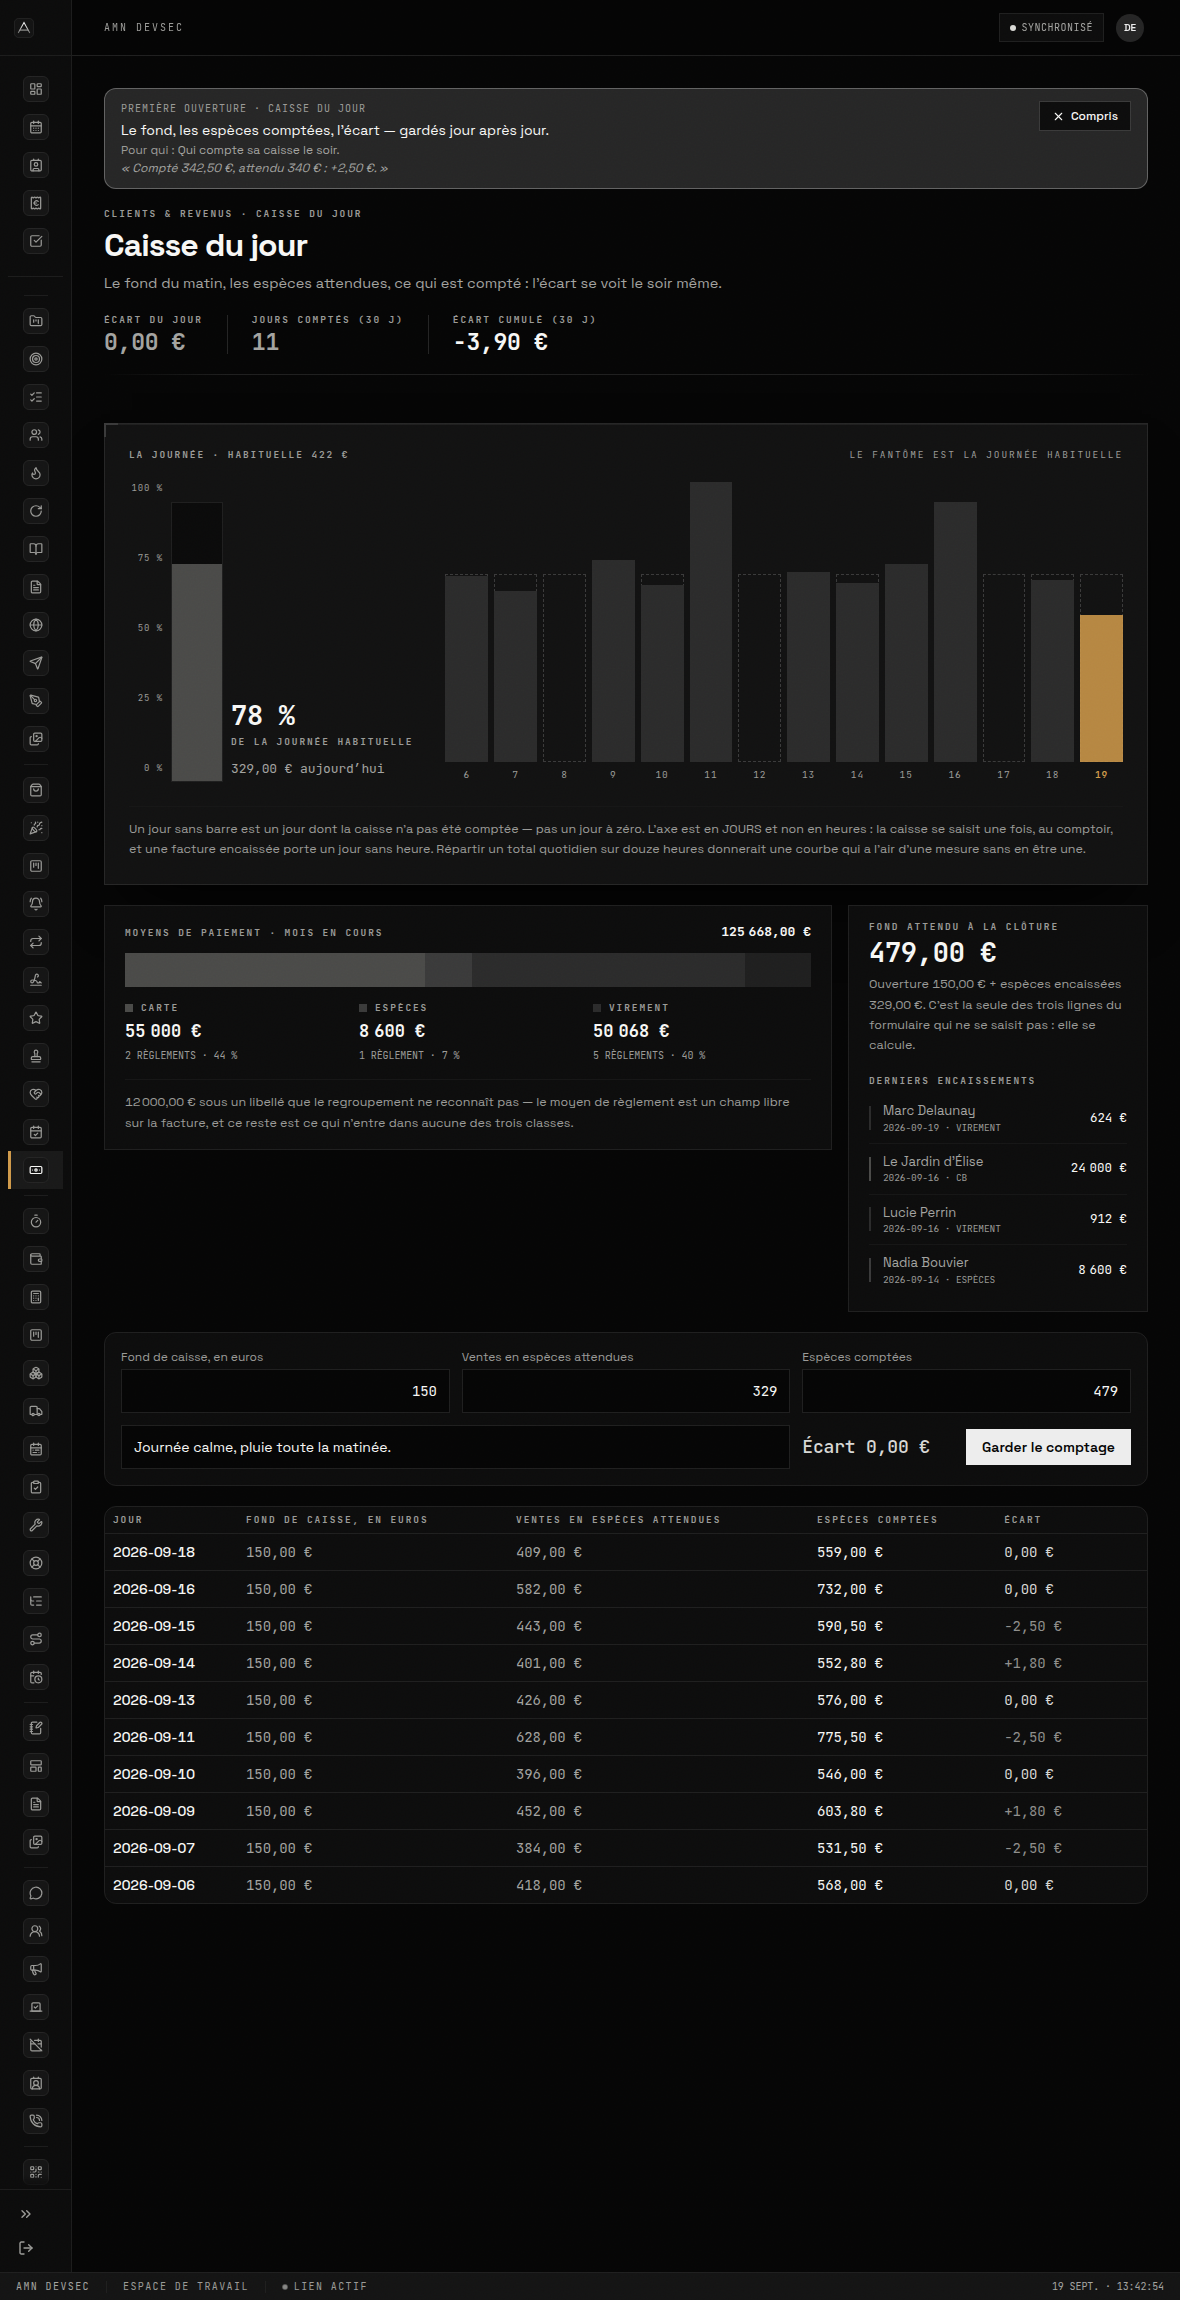
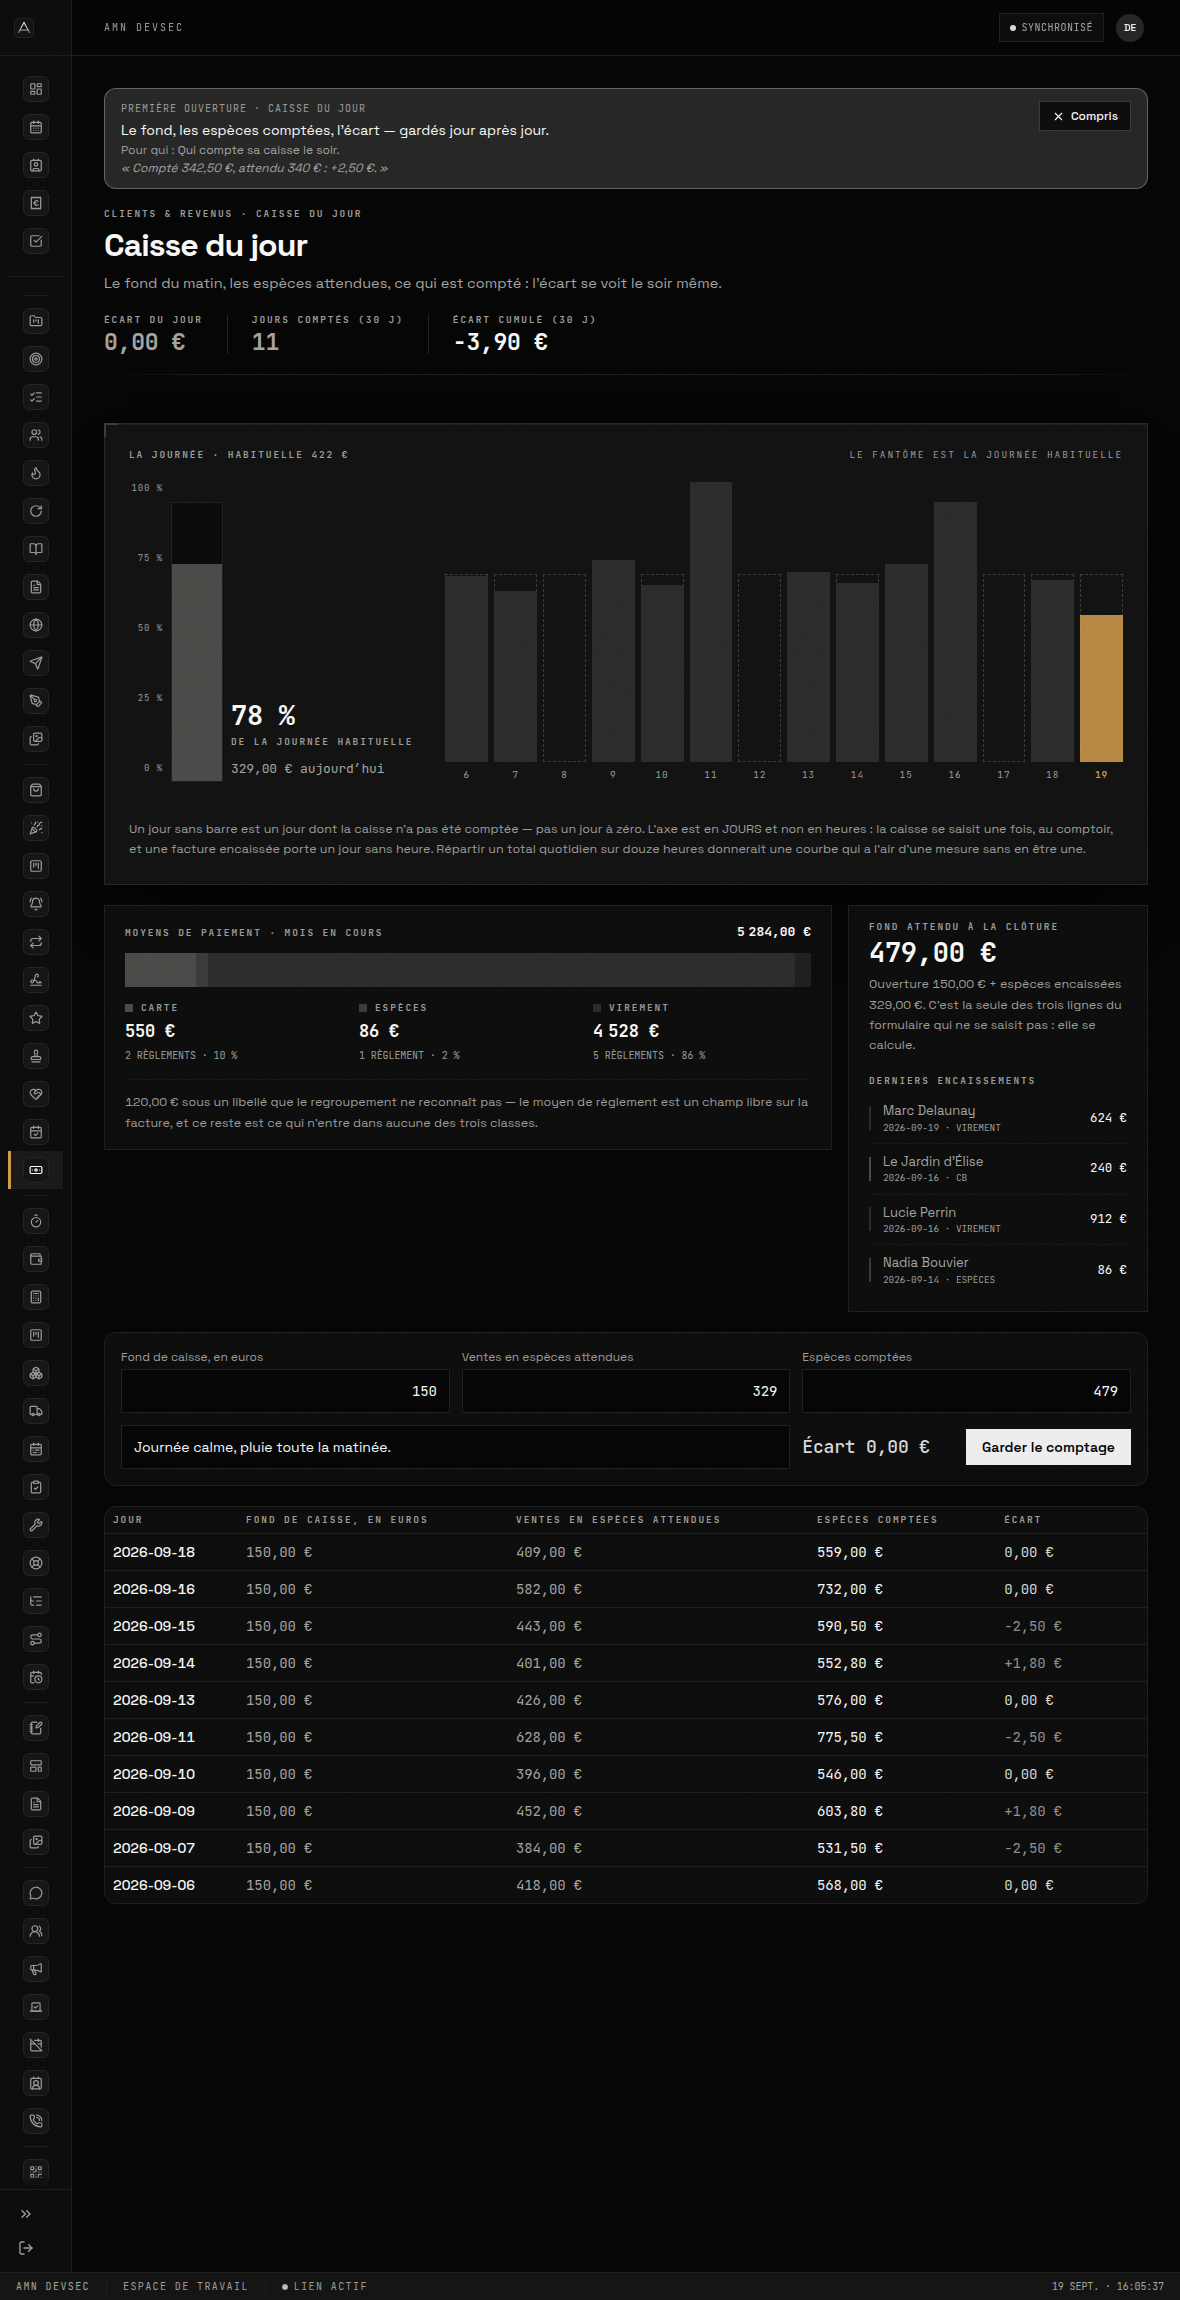
Clients & revenus (9) — Relances : l'échelle d'escalade, et deux défauts de données
Relances (14d) — quatre marches de hauteur CROISSANTE (70, 110, 150, 190 px,
écart constant de 40), chaque créance posée en jeton sur la sienne. Ce n'est
pas un tableau trié par ancienneté : c'est une montée, et l'on voit ce qui
approche du haut. Quatre cases de même taille ne se montent pas, elles se
cochent.

Les règles du paquet, tenues :

  · LA MARCHE DU HAUT RESTE DESSINÉE MÊME VIDE, avec « personne » en filet
    pointillé — c'est elle qui donne son sens aux trois autres. Le jeu
    d'essai la laisse vide exprès (voir plus bas) ;
  · LE JETON DE CRÉANCE RESTE EN ENCRE CLAIRE, même sur la marche ambre : la
    marche est le sujet, la créance est ce qui s'y trouve ;
  · LE PASSAGE AU DEGRÉ SUIVANT EST DÉCLENCHÉ À LA MAIN, et l'écran le dit en
    toutes lettres. Rien ne part d'ici sans qu'on ait copié le texte et noté
    l'envoi.

L'ambre va à la marche la plus haute QUI PORTE QUELQU'UN — ce qui approche du
haut, donc ce qui demande une décision. Son fond, le degré gravé dedans et
son libellé dessous : trois nœuds. La lettre, elle, perd le sien : elle
gardait « à écrire » en ambre, et deux régions ambre font zéro région ambre.
Elle garde sa matière de feuille, qui dit déjà que c'est un document.

ARBITRAGE. MODULES.md grave « J+30 » dans la marche de mise en demeure. Les
seuils du produit sont 7 / 21 / 45 jours (src/lib/relances.ts), qui suivent
l'usage commercial français et sont documentés depuis un chantier antérieur.
[…]

Changed region(s): [[0.122, 0.4013, 0.4881, 0.4939], [0.5186, 0.4322, 0.5492, 0.463]]

diff --git a/src/screens/RemindersScreen.tsx b/src/screens/RemindersScreen.tsx
@@ -12,6 +12,8 @@ import { staggerContainer, staggerItem } from '../lib/transitions';
 import { useLangue } from '../i18n';
 import { paliereDe, toneAMonte, rangPalier, cleMessagePalier, CLE_LIBELLE_PALIER, ECHELLE, type PalierRelance } from '../lib/relances';
 import type { Invoice } from '../shared/api';
+import { useAppointments } from '../state/useAppointments';
+import { useHaloSignal } from '../components/EtatEcran';
 
 interface ReminderData {
   invoiceId: string;
@@ -29,6 +31,16 @@ const PALIER_TON: Record<PalierRelance, string> = {
   'dernier-avis': 'text-danger',
 };
 const isoDay = () => new Date().toISOString().slice(0, 10);
+
+/**
+ * LES QUATRE MARCHES DE L'ESCALADE (`14d`) — 70, 110, 150, 190 px.
+ *
+ * Des hauteurs CROISSANTES, et c'est tout l'objet : une échelle se monte, et
+ * quatre cases de même taille ne se montent pas, elles se cochent. L'écart
+ * entre marches est constant (40 px) pour que la montée se lise comme
+ * régulière — ce qu'elle est : le ton monte d'un cran à chaque seuil.
+ */
+const MARCHES: number[] = [70, 110, 150, 190];
 
 /**
  * LES RELANCES DE PAIEMENT — l'argent dû, et le mot qu'on envoie.
@@ -159,6 +171,89 @@ export function RemindersScreen() {
       palier: palierDe(f),
     });
 
+  /* ------------------------------------- l'échelle d'escalade (`14d`) -- */
+
+  /*
+    LES CRÉANCES POSÉES SUR LEUR MARCHE. Ce n'est pas un tableau trié par
+    ancienneté : c'est une MONTÉE, et l'on voit ce qui approche du haut.
+  */
+  const parMarche = useMemo(() => {
+    const retard = (f: Invoice) =>
+      Math.max(1, Math.round((Date.parse(jour) - Date.parse(f.dueAt)) / 86_400_000));
+    return ECHELLE.map((cran) => ({
+      cran,
+      creances: echues.filter((f) => paliereDe(retard(f)) === cran.palier),
+    }));
+  }, [echues, jour]);
+
+  /*
+    L'AMBRE VA À LA MARCHE LA PLUS HAUTE QUI PORTE QUELQU'UN.
+
+    C'est ce qui approche du haut, donc ce qui demande une décision. La marche
+    du dernier avis reste DESSINÉE même vide — c'est elle qui donne son sens
+    aux trois autres, et une échelle dont on efface le dernier barreau cesse
+    d'être une échelle.
+  */
+  const marcheAmbre = useMemo(
+    () => [...parMarche].reverse().find((m) => m.creances.length > 0) ?? null,
+    [parMarche],
+  );
+  const halo = useHaloSignal(!!marcheAmbre);
+
+  /*
+    CE QUE L'ÉCHELLE A RÉCUPÉRÉ SUR L'ANNÉE, et jusqu'où elle est montée.
+    Les deux chiffres sont COMPTÉS : une facture encaissée après son échéance
+    est une créance rattrapée, et le palier le plus haut jamais noté se lit
+    dans la trace des relances. Rien n'est affirmé sans être comptable.
+  */
+  const bilan = useMemo(() => {
+    const annee = jour.slice(0, 4);
+    const enRetardUnJour = invoices.filter(
+      (f) =>
+        f.kind !== 'creditNote' &&
+        f.status !== 'draft' &&
+        f.status !== 'cancelled' &&
+        f.dueAt &&
+        f.dueAt.startsWith(annee) &&
+        (f.status === 'paid' ? f.paidAt > f.dueAt : f.dueAt < jour),
+    );
+    const rattrapees = enRetardUnJour.filter((f) => f.status === 'paid');
+    const plusHaut = relances.reduce(
+      (haut, r) => Math.max(haut, rangPalier(r.palier ?? 'rappel')),
+      -1,
+    );
+    return { total: enRetardUnJour.length, rattrapees: rattrapees.length, plusHaut };
+  }, [invoices, relances, jour]);
+
+  /*
+    LE RENDEZ-VOUS DU JOUR avec le client de la marche la plus haute : on
+    n'envoie pas une mise en demeure à quelqu'un qu'on voit dans trois heures.
+    Ce fait est LU dans l'agenda, jamais écrit en dur.
+  */
+  const { appointments } = useAppointments();
+  /*
+    LA CRÉANCE DONT ON PARLE EST CELLE DE LA LETTRE, pas la première de la
+    marche. Vu sur capture : la carte disait « un rendez-vous avec Hugo
+    Marchand » pendant que la lettre s'adressait à Salomé Vallon — l'écran
+    désignait deux personnes comme « celle qu'on relance ». `tete` est la plus
+    dure à écrire, et c'est elle que l'écran a choisie ; la carte la suit.
+  */
+  const clientDeLaMarche =
+    (tete && marcheAmbre?.creances.some((f) => f.id === tete.id) ? tete : marcheAmbre?.creances[0]) ??
+    null;
+  const rdvDuJour = useMemo(() => {
+    if (!clientDeLaMarche) return null;
+    const cible = clientDeLaMarche.billTo.name.trim().toLowerCase();
+    return (
+      appointments.find(
+        (a) =>
+          a.status === 'scheduled' &&
+          a.startAt.startsWith(jour) &&
+          (a.clientName || '').trim().toLowerCase() === cible,
+      ) ?? null
+    );
+  }, [appointments, clientDeLaMarche, jour]);
+
   const palierTete = tete ? palierDe(tete) : null;
   const dernierePourTete = tete ? derniere(tete) : null;
   const dernierPalierTete = dernierePourTete?.palier ?? (dernierePourTete ? 'rappel' : null);
@@ -185,8 +280,154 @@ export function RemindersScreen() {
         </motion.div>
       ) : (
         <>
-          <motion.section variants={staggerItem} className="panel-sheet p-5 sm:p-6" data-signal-groupe="a-ecrire">
-            <p className="eyebrow eyebrow-signal mb-3">{t('relances.aEcrire')}</p>
+          {/* ── L'ÉCHELLE D'ESCALADE — l'objet dominant (`14d`) ──────────── */}
+          <motion.section variants={staggerItem} className="panel-raised panel-raised-wide panel-ticks px-6 py-6">
+            <div className="mb-6 flex flex-wrap items-baseline justify-between gap-x-6 gap-y-2">
+              <p className="eyebrow">{t('relances.echelle')}</p>
+              <p className="font-mono text-[9.5px] uppercase tracking-[0.2em] text-text-muted">
+                on monte d’un cran à la main, jamais tout seul
+              </p>
+            </div>
+
+            <div className="flex items-end gap-3 sm:gap-5">
+              {parMarche.map(({ cran, creances }, i) => {
+                const signal = marcheAmbre?.cran.palier === cran.palier;
+                const vide = creances.length === 0;
+                return (
+                  <div key={cran.palier} className="flex min-w-0 flex-1 flex-col justify-end">
+                    {/* LES JETONS, POSÉS SUR LA MARCHE. Ils restent en ENCRE
+                        CLAIRE même sur la marche ambre : la marche est le
+                        sujet, la créance est ce qui s'y trouve. */}
+                    <div className="mb-2 flex flex-col gap-1">
+                      {creances.map((f) => (
+                        <button
+                          key={f.id}
+                          type="button"
+                          onClick={() => setChoisie(f.id)}
+                          title={`${f.billTo.name} · ${formatCents(netDueCents(f, invoices))} · ${jours(f)} j`}
+                          className={`flex min-w-0 items-baseline justify-between gap-2 border px-2 py-1.5 text-left transition-colors ${
+                            tete?.id === f.id
+                              ? 'border-border-strong bg-raised'
+                              : 'border-border bg-surface hover:bg-surface-hover'
+                          }`}
+                        >
+                          <span className="min-w-0 flex-1 truncate text-[12px] text-text-primary">
+                            {f.billTo.name}
+                          </span>
+                          <span className="tnum flex-shrink-0 font-mono text-[10px] text-text-muted">
+                            {jours(f)} j
+                          </span>
+                        </button>
+                      ))}
+                      {vide && (
+                        <span className="border border-dashed border-border-strong px-2 py-1.5 text-center font-mono text-[9.5px] uppercase tracking-[0.2em] text-text-muted">
+                          personne
+                        </span>
+                      )}
+                    </div>
+
+                    {/* LA MARCHE. Le degré est GRAVÉ dedans. */}
+                    <div
+                      className={`flex items-start justify-center pt-2 ${
+                        signal ? `bg-signal ${halo}` : 'bg-[#2b2b2b]'
+                      }`}
+                      style={{ height: MARCHES[i] }}
+                      data-signal-groupe={signal ? 'marche' : undefined}
+                    >
+                      <span
+                        className={`tnum font-mono text-[13px] font-bold tracking-[0.06em] ${
+                          signal ? 'text-signal-ink' : 'text-text-muted'
+                        }`}
+                        data-signal-groupe={signal ? 'marche' : undefined}
+                      >
+                        {cran.auDela === 0 ? 'J+1' : `J+${cran.auDela + 1}`}
+                      </span>
+                    </div>
+
+                    <p
+                      className={`mt-2 truncate text-center font-mono text-[9.5px] font-bold uppercase tracking-[0.14em] ${
+                        signal ? 'text-signal' : 'text-text-muted'
+                      }`}
+                      data-signal-groupe={signal ? 'marche' : undefined}
+                    >
+                      {t(CLE_LIBELLE_PALIER[cran.palier])}
+                    </p>
+                  </div>
+                );
+              })}
+            </div>
+
+            <div className="mt-7 grid items-start gap-6 border-t border-border-raised pt-5 lg:grid-cols-[1fr_300px]">
+              <div>
+                <p className="eyebrow mb-3">Ce qui se joue avant de monter d’un cran</p>
+                <p className="text-[14.5px] leading-[1.7] text-text-secondary [text-wrap:pretty]">
+                  {marcheAmbre ? (
+                    <>
+                      {marcheAmbre.creances.length}{' '}
+                      {marcheAmbre.creances.length > 1 ? 'créances sont' : 'créance est'} au palier{' '}
+                      <span className="font-semibold text-text-primary">
+                        {t(CLE_LIBELLE_PALIER[marcheAmbre.cran.palier])}
+                      </span>
+                      , pour{' '}
+                      <span className="tnum font-mono font-semibold text-text-primary">
+                        {formatCents(
+                          marcheAmbre.creances.reduce((n, f) => n + netDueCents(f, invoices), 0),
+                        )}
+                      </span>
+                      .{' '}
+                      {rdvDuJour ? (
+                        <>
+                          Un rendez-vous est prévu aujourd’hui avec{' '}
+                          {clientDeLaMarche?.billTo.name}
+                          {rdvDuJour.location ? ` (${rdvDuJour.location})` : ''} : on n’envoie pas
+                          une lettre à quelqu’un qu’on voit dans quelques heures.
+                        </>
+                      ) : (
+                        <>
+                          Rien n’est prévu avec {clientDeLaMarche?.billTo.name} aujourd’hui dans
+                          l’agenda : la marche suivante se franchit par écrit, ou pas du tout.
+                        </>
+                      )}
+                    </>
+                  ) : (
+                    <>Aucune créance sur l’échelle — personne n’a de retard à rattraper.</>
+                  )}
+                </p>
+                <p className="mt-3 text-[13px] leading-relaxed text-text-muted">
+                  Le passage au degré suivant est déclenché À LA MAIN, jamais automatiquement :
+                  rien ne part d’ici sans qu’on ait copié le texte et noté l’envoi.
+                </p>
+              </div>
+
+              <div>
+                <p className="eyebrow mb-2">Ce que l’échelle a récupéré</p>
+                <p className="tnum font-mono text-[27px] font-semibold leading-none tracking-[-0.03em] text-text-primary">
+                  {bilan.total > 0 ? `${bilan.rattrapees}/${bilan.total}` : '—'}
+                </p>
+                <p className="mt-2 text-[12.5px] leading-relaxed text-text-muted">
+                  {bilan.total > 0
+                    ? `créances en retard cette année, dont ${bilan.rattrapees} encaissées depuis.`
+                    : 'aucune créance en retard cette année.'}{' '}
+                  {bilan.plusHaut < 0
+                    ? 'Aucune relance notée pour l’instant.'
+                    : bilan.plusHaut < MARCHES.length - 1
+                      ? 'Aucune n’est jamais montée jusqu’en haut.'
+                      : 'Une au moins est montée jusqu’en haut.'}
+                </p>
+              </div>
+            </div>
+          </motion.section>
+
+          <motion.section variants={staggerItem} className="panel-sheet p-5 sm:p-6">
+            {/*
+              LA LETTRE N'EST PLUS AMBRE. Elle l'était (« à écrire »), et
+              c'était juste tant qu'elle était l'objet dominant. `MODULES.md`
+              donne l'ambre à la MARCHE la plus haute occupée, et un écran n'a
+              qu'une région ambre. La lettre garde sa matière de feuille —
+              `panel-sheet`, ombre basse — qui dit déjà que c'est un document
+              qu'on copie tel quel.
+            */}
+            <p className="eyebrow mb-3">{t('relances.aEcrire')}</p>
 
             <div className="flex flex-wrap items-start justify-between gap-x-6 gap-y-3">
               <div className="min-w-0">
@@ -250,7 +491,7 @@ export function RemindersScreen() {
             <p className="mt-4 whitespace-pre-wrap border border-border bg-bg px-4 py-3.5 text-sm leading-relaxed text-text-secondary">{message(tete)}</p>
 
             <div className="mt-4 flex flex-wrap gap-2">
-              <button type="button" onClick={() => void copier(tete)} className="signal-plate flex min-h-11 items-center gap-2 px-4 text-sm font-semibold md:min-h-0 md:py-2.5">
+              <button type="button" onClick={() => void copier(tete)} className="flex min-h-11 items-center gap-2 bg-accent px-4 text-sm font-semibold text-bg transition-colors hover:bg-accent-hover md:min-h-0 md:py-2.5">
                 {copiee === tete.id ? <Check size={14} strokeWidth={2.5} /> : <Copy size={14} strokeWidth={2} />}
                 {copiee === tete.id ? t('relances.copie') : t('relances.copier')}
               </button>
